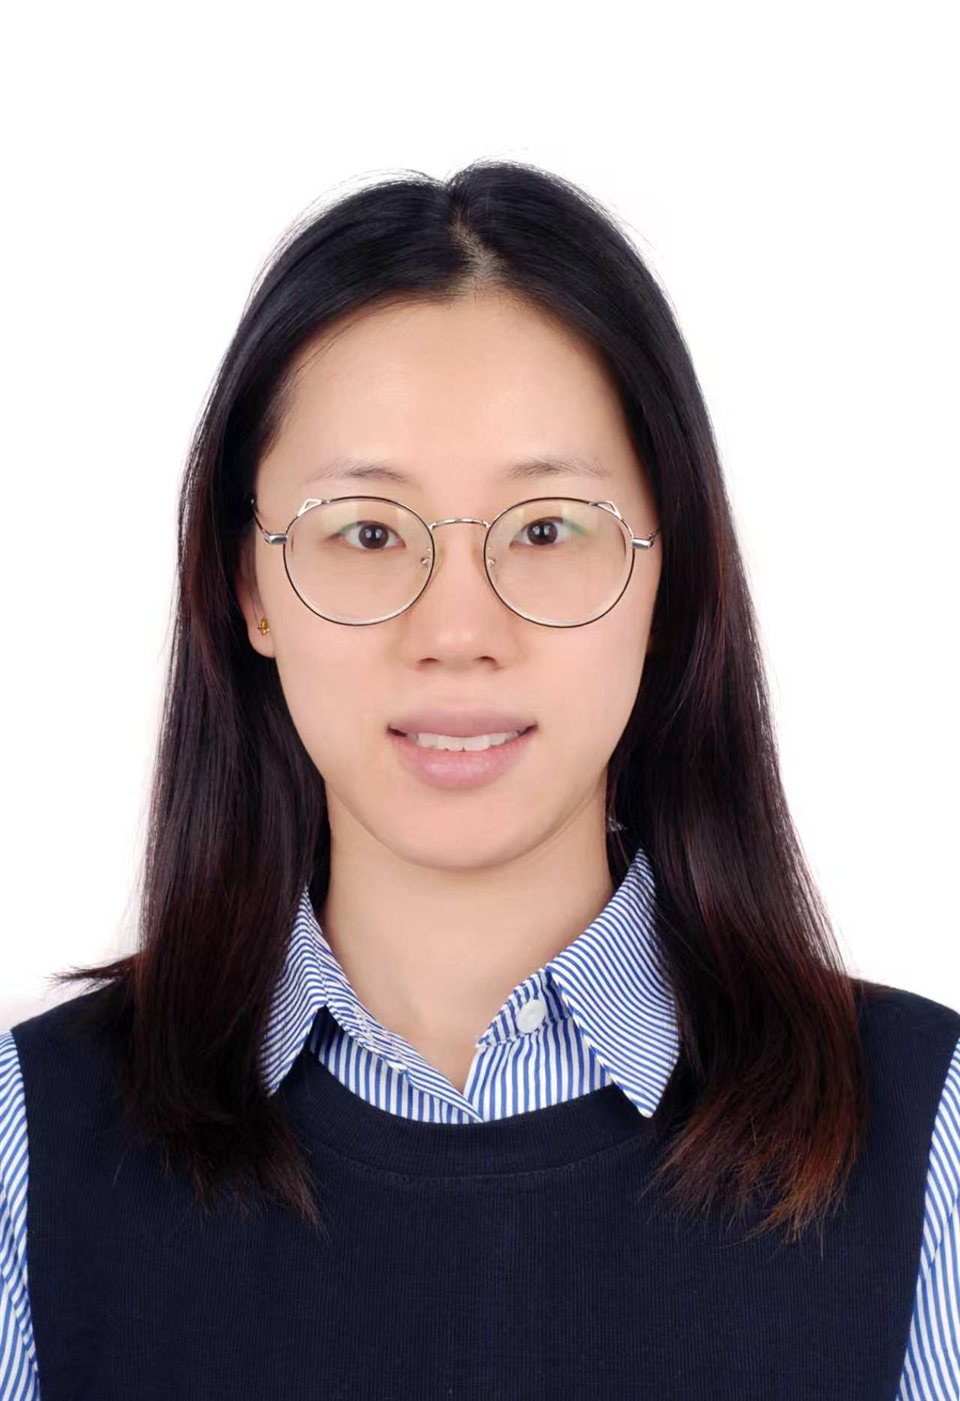
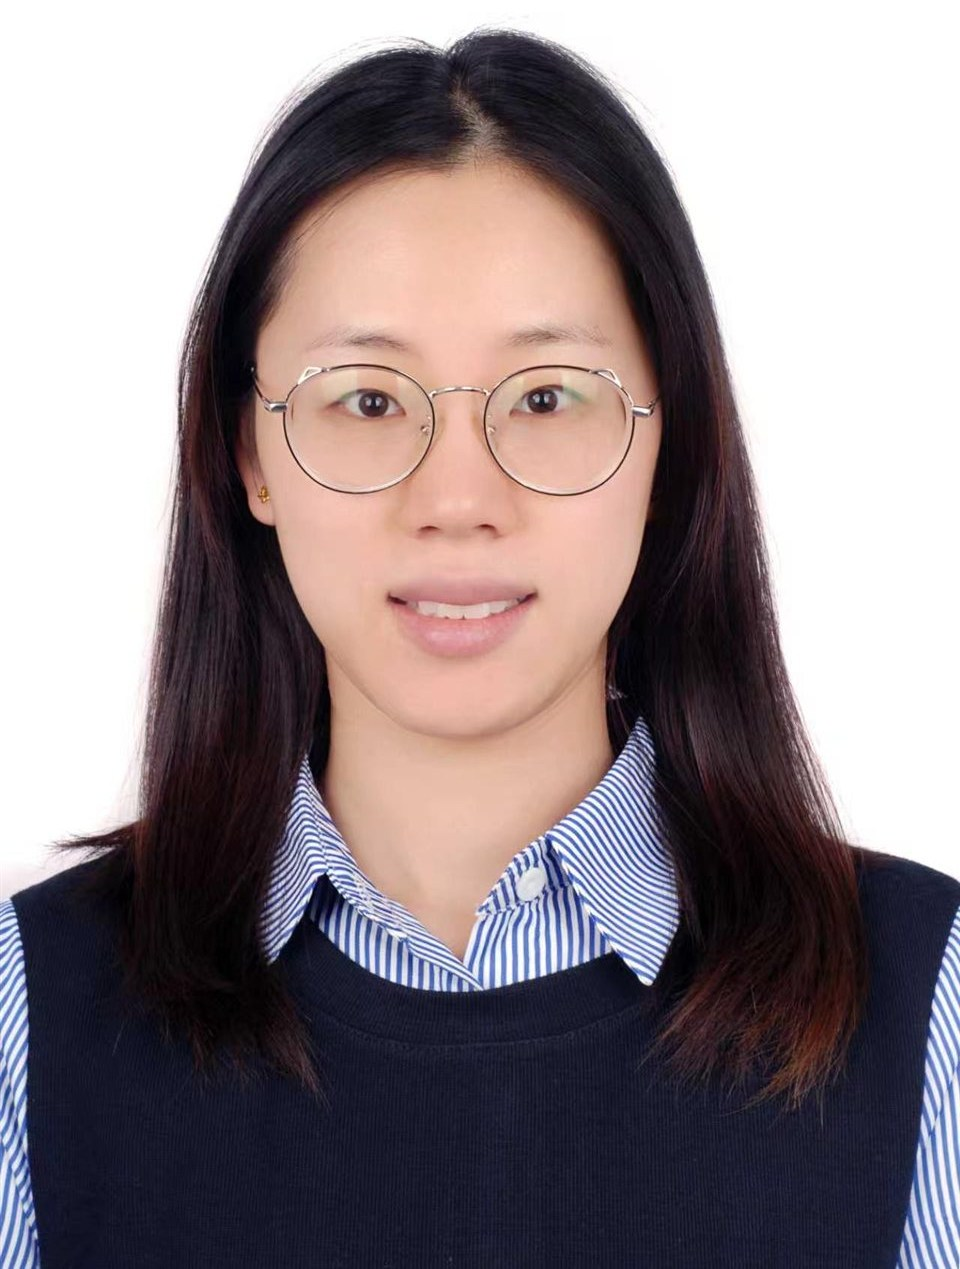
优化手机端自适应

Changed region(s): [[0.0, 0.0, 1.0, 1.0], [0.2812, 0.8298, 0.3438, 0.8913]]

diff --git a/src/components/pages/home.tsx b/src/components/pages/home.tsx
@@ -95,13 +95,16 @@ export function HomePage({ lang }: { lang: Lang }) {
       <section id="leader" aria-labelledby="leader-title" className="py-section">
         <div className="mx-auto w-full max-w-content px-6 md:px-8">
           <Reveal className="zoom-70">
-            <div className="grid items-start gap-10 lg:grid-cols-[2fr_3fr] lg:gap-16">
+            {/* lg:gap-[143px]：zoom-70 后视觉间距 ≈100px（2026-09-07 导师定稿） */}
+            <div className="grid items-start gap-10 lg:grid-cols-[2fr_3fr] lg:gap-[143px]">
+              {/* 照片右对齐贴住文字列（原 justify-self-start 时列内留白 175px）；
+                  图源已裁掉顶部留白（960×1269），人物头部与眉题/标题对齐 */}
               <Image
                 src={supervisor.photo}
                 alt={t(copy.supervisorPhotoAlt, lang)}
                 width={520}
-                height={693}
-                className="w-full max-w-sm justify-self-center rounded-xl object-cover shadow-card lg:justify-self-start"
+                height={688}
+                className="w-full max-w-sm justify-self-center rounded-xl object-cover shadow-card lg:justify-self-end"
               />
               <div>
                 <SectionHeading
@@ -211,8 +214,15 @@ export function HomePage({ lang }: { lang: Lang }) {
                 xl 起 4 列（4×4 共 16 人），卡片视觉宽 ≈250px（较原 3 列缩小约 15%），
                 卡片文字字号不变（MemberCard 内为固定 rem 类）；1040-1280 过渡为 3 列 */}
             <div className="mx-auto mt-12 grid w-full max-w-[1536px] grid-cols-1 gap-6 sm:grid-cols-2 lg:grid-cols-3 xl:grid-cols-4">
-              {featuredMembers.map((member) => (
-                <MemberCard key={member.id} member={member} lang={lang} />
+              {featuredMembers.map((member, i) => (
+                <MemberCard
+                  key={member.id}
+                  member={member}
+                  lang={lang}
+                  /* 手机端只展示前 8 张（恰好为 8 位研究生）：9+ 用 CSS 隐藏。
+                     不用 JS 按宽度切片：SSG 产出单份 HTML，切片会导致水合不匹配 */
+                  className={i >= 8 ? "max-sm:hidden" : undefined}
+                />
               ))}
             </div>
             <div className="mt-12 text-center">

diff --git a/src/components/member-card.tsx b/src/components/member-card.tsx
@@ -12,25 +12,31 @@ interface MemberCardProps {
   lang: Lang;
   /** /team 页传 true 显示邮箱；首页精选不显示（沿袭旧站） */
   showEmail?: boolean;
+  /** 附加类（首页第 9+ 张卡在手机端隐藏：max-sm:hidden） */
+  className?: string;
 }
 
 /**
  * 成员卡片（首页精选 + /team 页共用）
- * 照片通栏铺满卡片上半区（大图展示），邮箱为纯文本不跳转
+ * 手机端（<560px）横排：左侧小方图 + 右侧信息（纵向排列的横向卡片）；
+ * ≥560px 竖版：照片通栏铺满上半区（大图展示）
+ * 邮箱为纯文本不跳转；字号全断点一致（仅布局随断点切换）
  */
-export function MemberCard({ member, lang, showEmail = false }: MemberCardProps) {
+export function MemberCard({ member, lang, showEmail = false, className }: MemberCardProps) {
   const name = t(member.name, lang);
 
   return (
-    <article className="lift flex flex-col overflow-hidden rounded-xl border border-border bg-surface-elevated text-center shadow-card">
+    <article
+      className={`lift flex flex-row items-stretch overflow-hidden rounded-xl border border-border bg-surface-elevated text-left shadow-card sm:flex-col sm:text-center ${className ?? ""}`}
+    >
       <Image
         src={member.photo}
         alt={lang === "zh" ? `${name}照片` : `${name} photo`}
         width={380}
         height={380}
-        className="aspect-square w-full object-cover"
+        className="h-auto w-32 shrink-0 object-cover sm:aspect-square sm:w-full"
       />
-      <div className="flex flex-1 flex-col items-center px-4 py-5">
+      <div className="flex min-w-0 flex-1 flex-col justify-center px-4 py-3 sm:items-center sm:py-5">
         <p className="text-sm font-medium tracking-wide text-body-muted uppercase">
           {t(roleLabels[member.role], lang)}
         </p>

diff --git a/src/data/members.ts b/src/data/members.ts
@@ -153,7 +153,7 @@ export const members: Member[] = [
     name: { zh: "王悦涵", en: "Yuehan Wang" },
     role: "undergraduate",
     email: "wyhwkwl@gmail.com",
-    photo: PLACEHOLDER_AVATAR,
+    photo: "/images/members/wang-yuehan.jpg",
     featured: false,
   },
   {
@@ -177,7 +177,7 @@ export const members: Member[] = [
     name: { zh: "龚玮乐", en: "Weile Gong" },
     role: "undergraduate",
     email: "phare111@163.com",
-    photo: PLACEHOLDER_AVATAR,
+    photo: "/images/members/gong-weile.jpg",
     featured: false,
   },
   {
@@ -201,7 +201,7 @@ export const members: Member[] = [
     name: { zh: "王怡涵", en: "Yihan Wang" },
     role: "undergraduate",
     email: "B25040902@njupt.deu.cn",
-    photo: PLACEHOLDER_AVATAR,
+    photo: "/images/members/wang-yihan.jpg",
     featured: false,
   },
   {

diff --git a/src/components/home/hero-slider.tsx b/src/components/home/hero-slider.tsx
@@ -91,7 +91,7 @@ export function HeroSlider({ slides, lang }: HeroSliderProps) {
                     </p>
                     <Title
                       id={i === 0 ? "hero-title" : undefined}
-                      className="mt-4 max-w-3xl text-5xl leading-tight font-bold tracking-tight break-words text-white md:text-7xl"
+                      className="mt-4 max-w-3xl text-4xl leading-tight font-bold tracking-tight break-words text-white sm:text-5xl md:text-7xl"
                     >
                       {t(slide.title, lang)}
                     </Title>

diff --git a/src/components/layout/site-header.tsx b/src/components/layout/site-header.tsx
@@ -50,10 +50,10 @@ export function SiteHeader({ lang }: { lang: Lang }) {
           </span>
         </Link>
 
-        {/* 桌面导航 + 语言切换 / 移动端汉堡 */}
+        {/* 桌面导航 + 语言切换 / 移动端汉堡（语言切换 <820px 收纳进抽屉） */}
         <div className="flex items-center gap-5">
           <NavLinks lang={lang} />
-          <div className="hidden sm:block">
+          <div className="hidden md:block">
             <LanguageSwitch />
           </div>
           <MobileNav lang={lang} />

diff --git a/src/components/ui/carousel.tsx b/src/components/ui/carousel.tsx
@@ -138,7 +138,8 @@ function CarouselContent({ className, ...props }: React.ComponentProps<"div">) {
   return (
     <div
       ref={carouselRef}
-      className="overflow-hidden"
+      /* touch-pan-y：embla 触屏要求——横向拖拽切幻灯片、竖向手势保留给页面滚动 */
+      className="overflow-hidden touch-pan-y"
       data-slot="carousel-content"
     >
       <div
